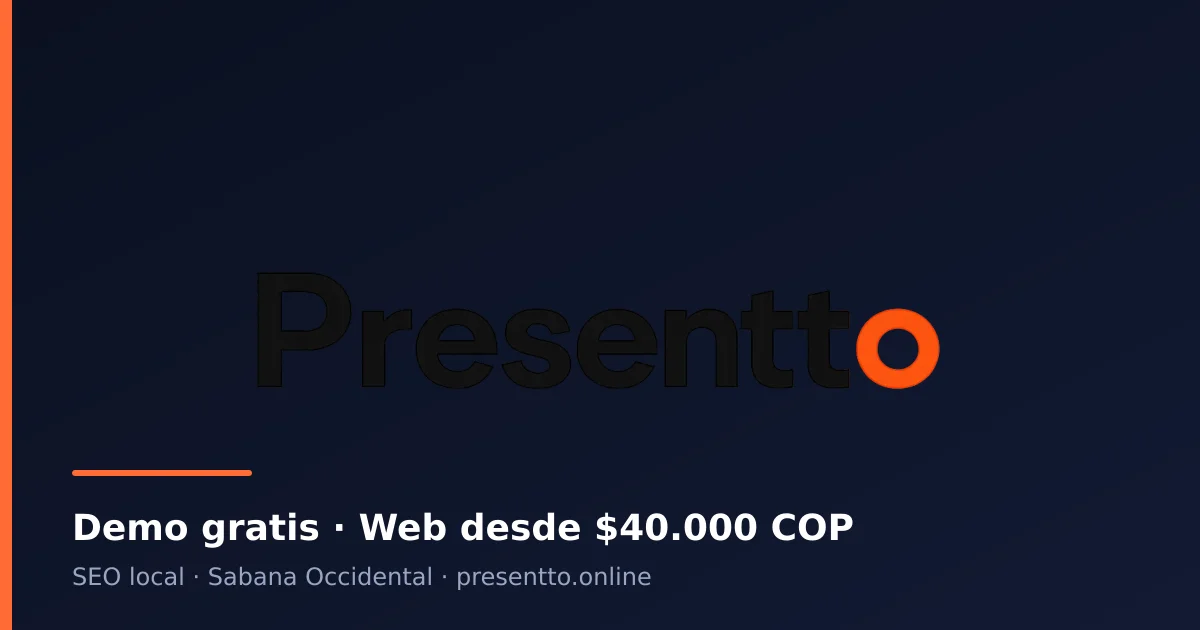
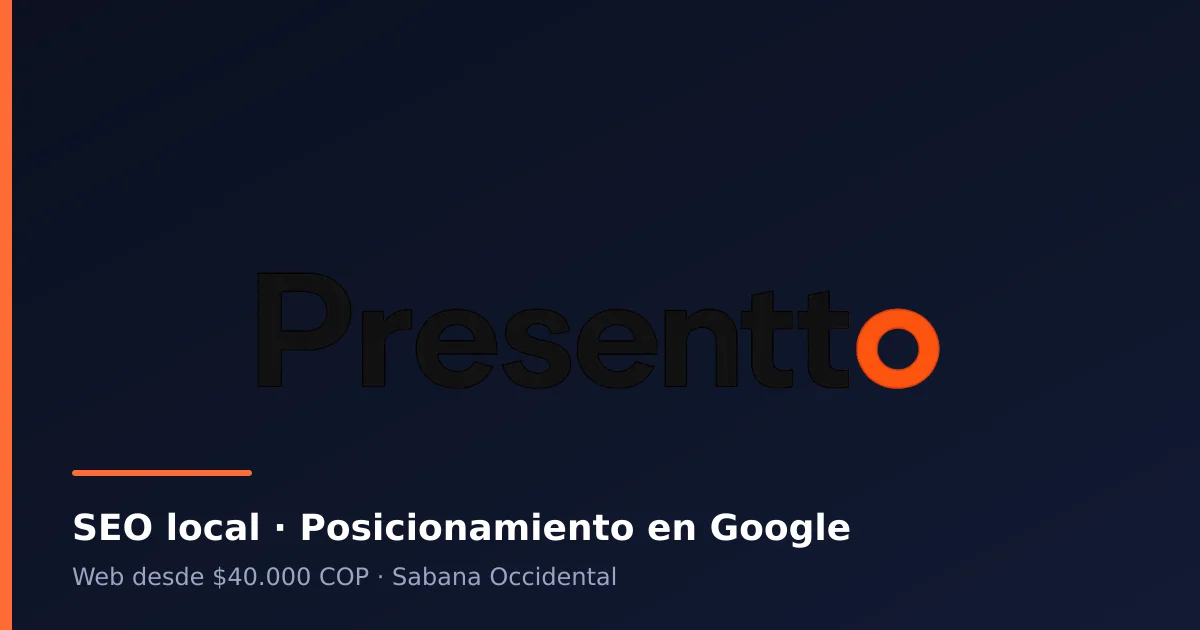
feat: dense SEO terminology across funnel, city pages and meta

Changed region(s): [[0.0617, 0.8143, 0.7092, 0.9349]]

diff --git a/src/components/schemas.ts b/src/components/schemas.ts
@@ -13,7 +13,7 @@ export const organizationSchema = {
   },
   email: 'inbox@presentto.online',
   telephone: '+57-323-648-7336',
-  slogan: 'Web administrada y SEO local desde $40.000 COP/mes — demo gratis',
+  slogan: 'Web administrada con SEO local y posicionamiento en Google desde $40.000 COP/mes — demo gratis',
   knowsLanguage: 'es-CO',
   contactPoint: {
     '@type': 'ContactPoint',
@@ -75,7 +75,7 @@ export const localBusinessSchema = {
       itemOffered: {
         '@type': 'Service',
         name: 'Presenttación Digital',
-        description: 'Sitio web con dominio, correo y SEO local — plan de 1 mes.',
+        description: 'Sitio web con SEO on-page, SEO local, schema y dominio — plan de 1 mes.',
       },
       price: '40000',
       priceCurrency: 'COP',
